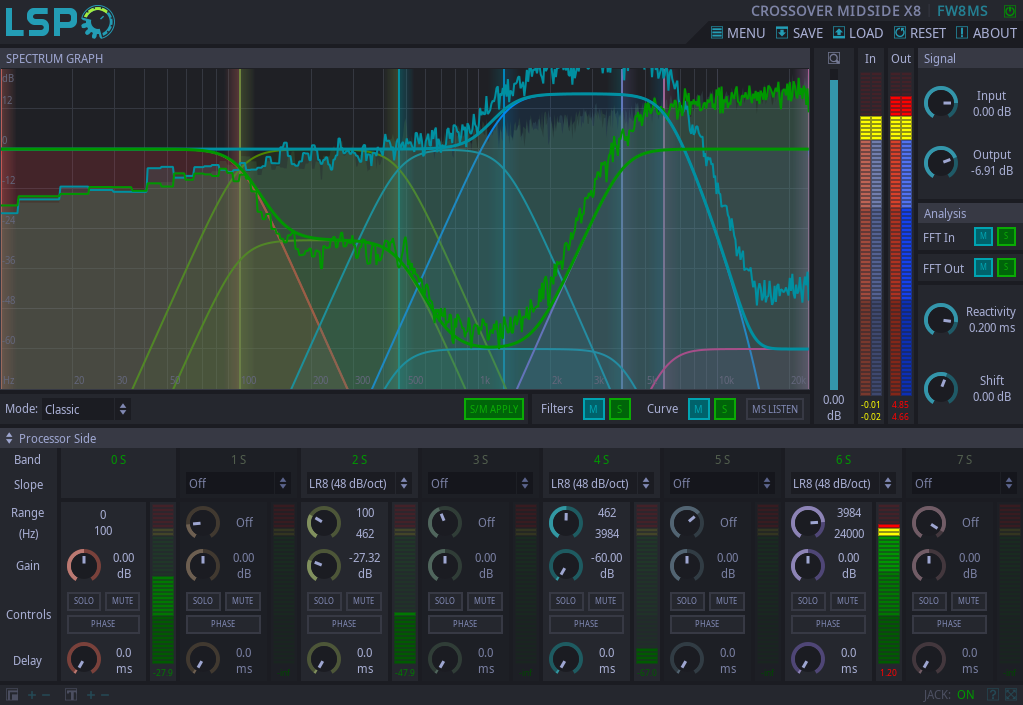
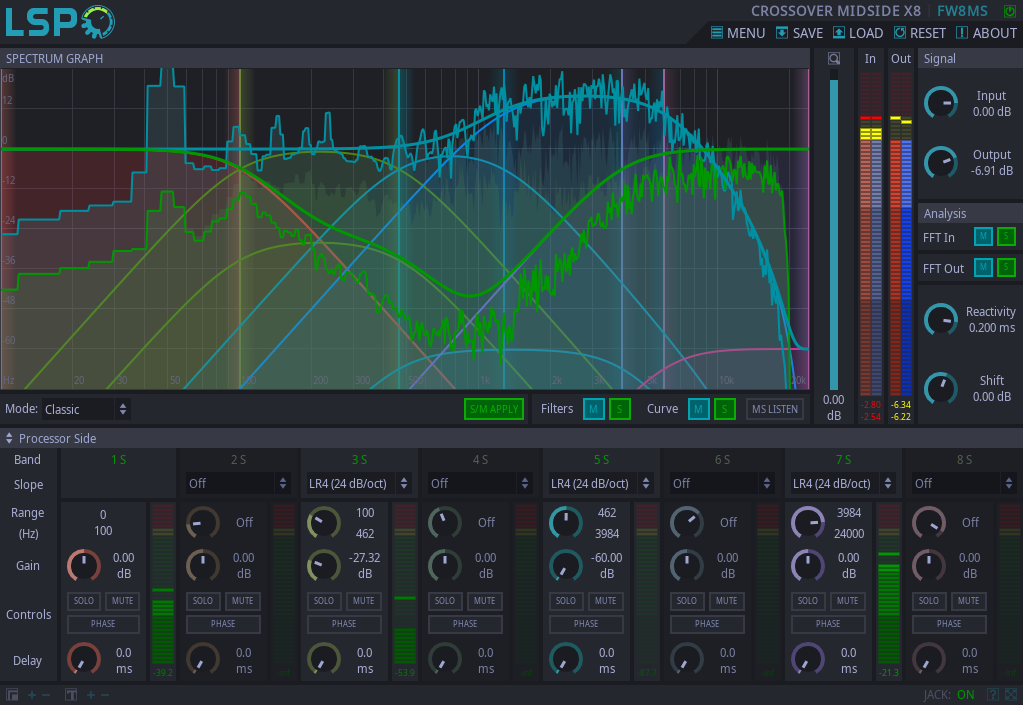
Changed the numbering.
The numbering starts with one, at the UI level.
Updated screenshots.

diff --git a/src/main/ui/crossover.cpp b/src/main/ui/crossover.cpp
@@ -268,7 +268,7 @@ namespace lsp
                 else
                     lc_string.set("lists.crossover.splits.index.split_id");
 
-                lc_string.params()->set_int("id", (vSplits.index_of(s) % (meta::crossover_metadata::BANDS_MAX-1))+1);
+                lc_string.params()->set_int("id", (vSplits.index_of(s) % (meta::crossover_metadata::BANDS_MAX-1))+2);
                 lc_string.format(&text);
                 params.set_string("id", &text);
                 lc_string.params()->clear();
